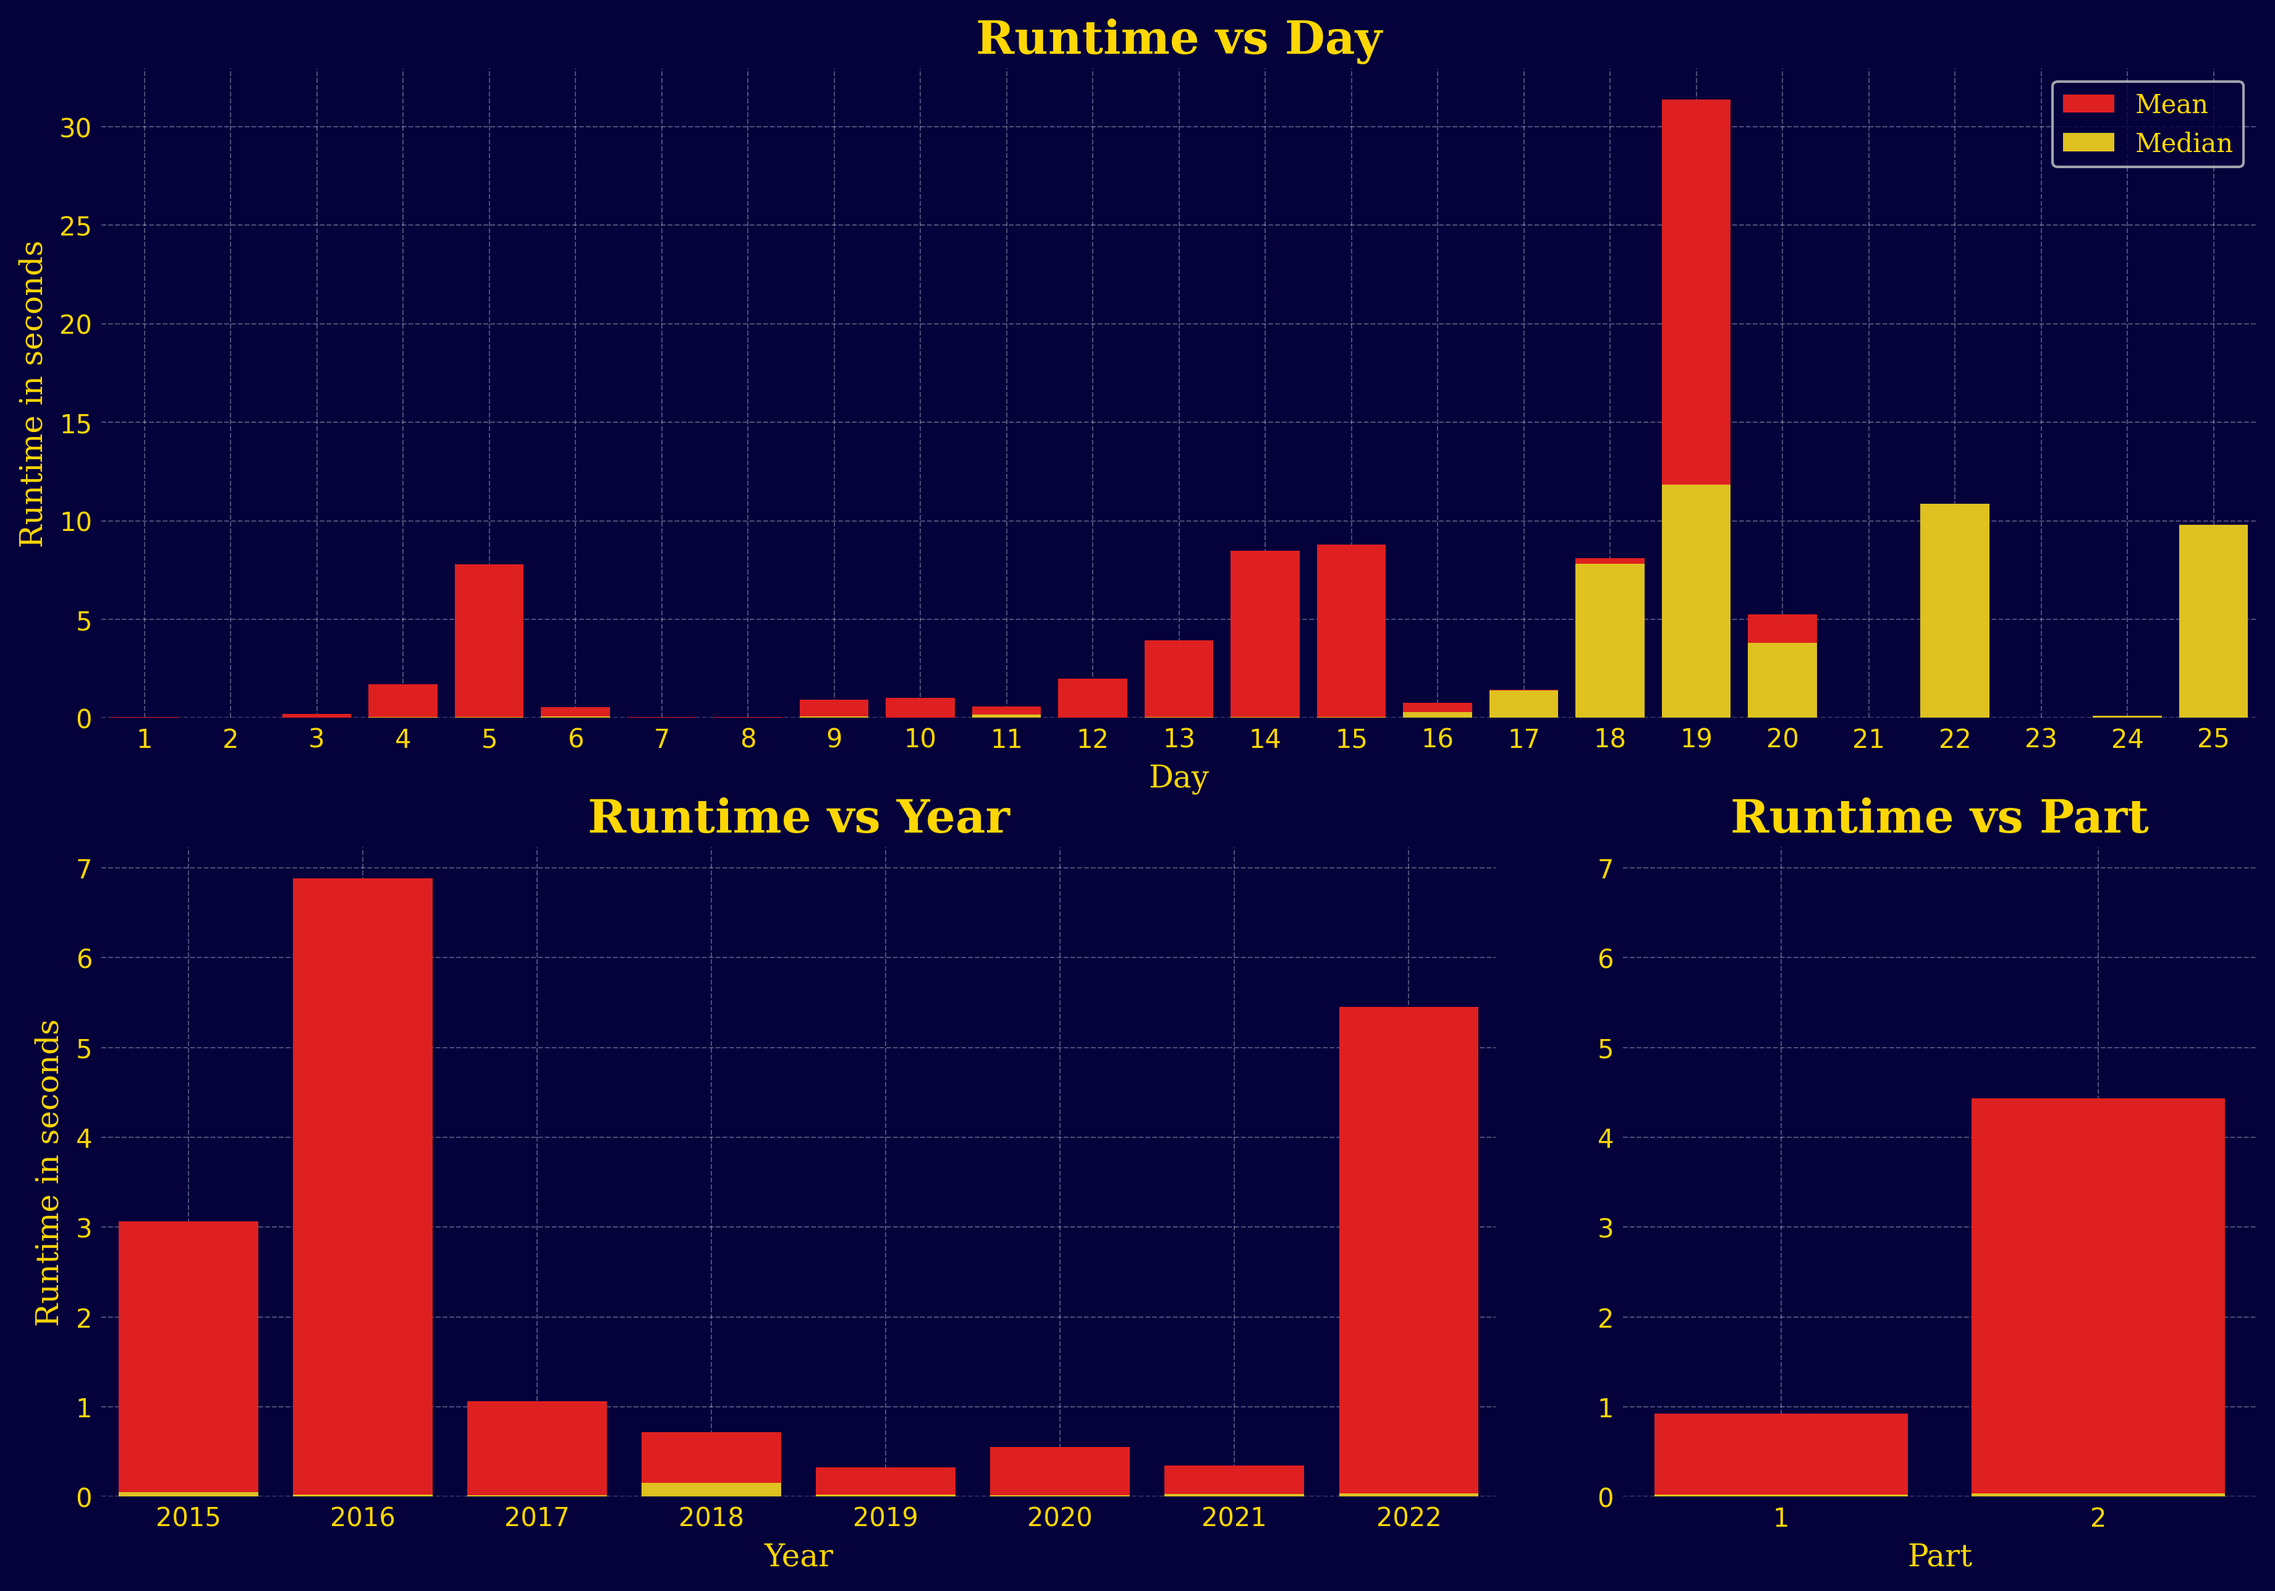
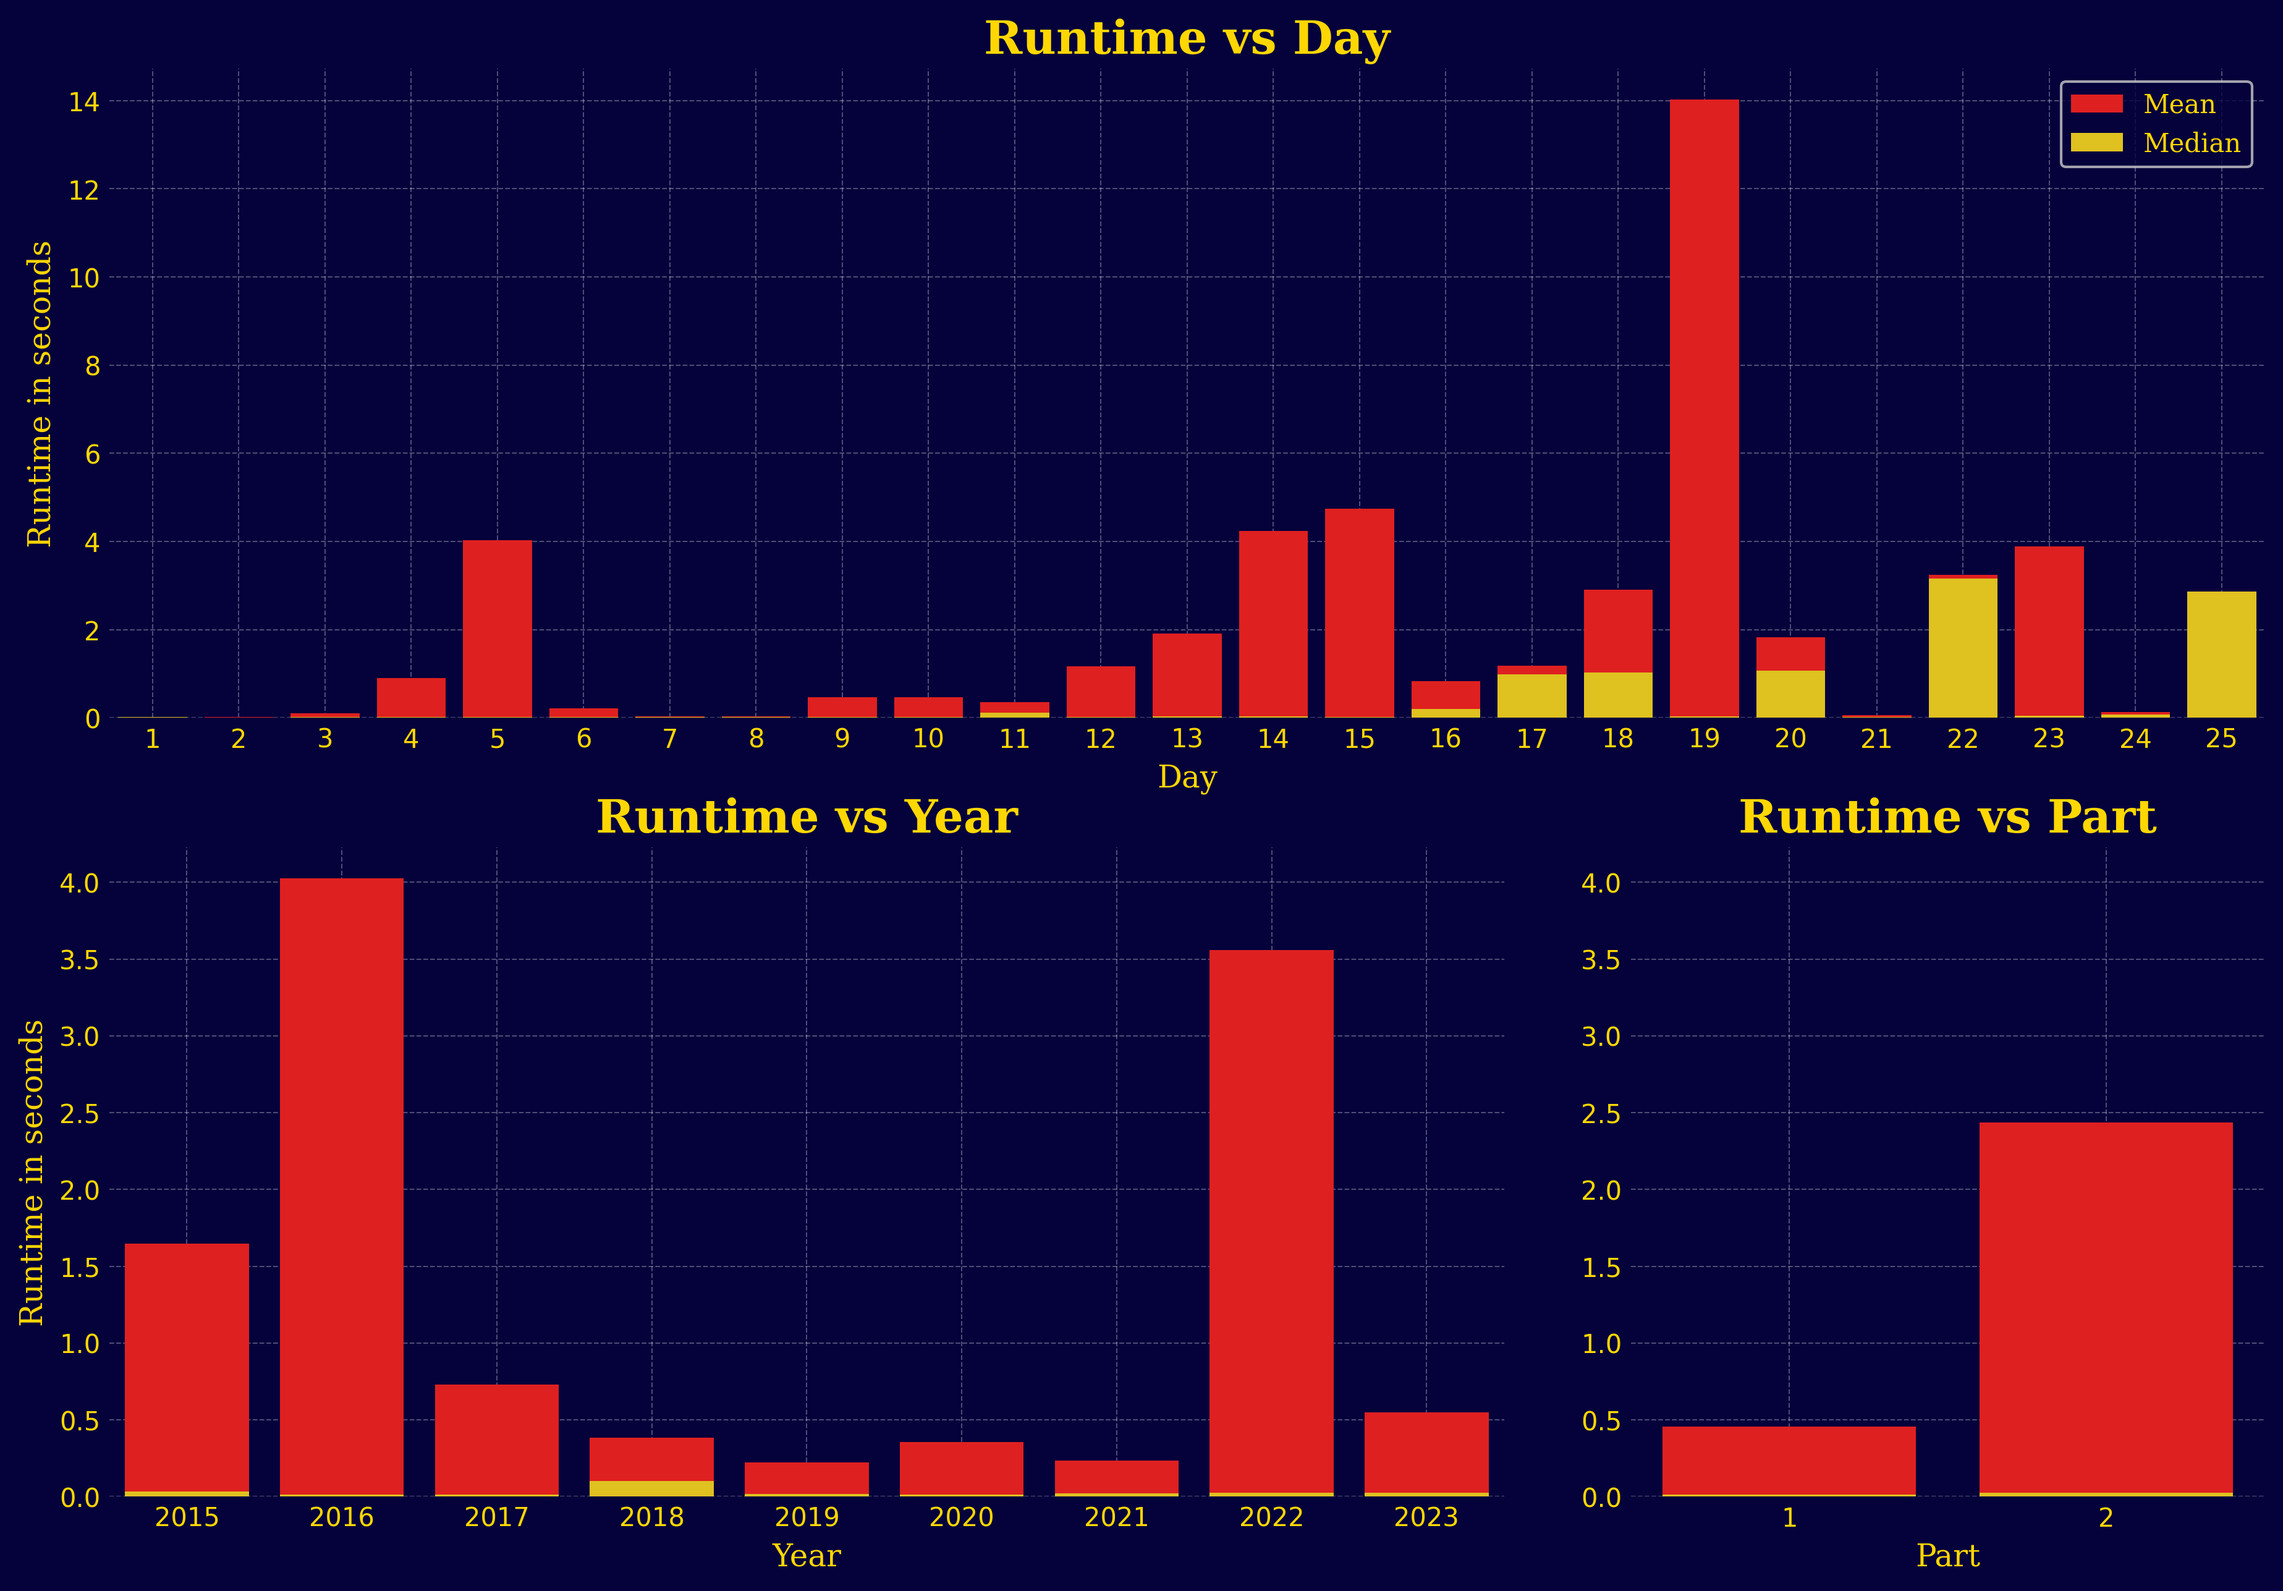
update plots

diff --git a/lib/plot.py b/lib/plot.py
@@ -6,35 +6,30 @@ import numpy as np
 
 # Local imports
 from lib import db, utils 
-from config import *
-
+from config import MAX_YEAR
+from config import TEXT_COLOR, PRIMARY_COLOR, BACKGROUND_COLOR, GRID_COLOR
+from config import PROGRESS_PLOT, RUNTIME_PLOT
 
 
 def plot_progress():
-
-    # Set colors
-    text_color = '#FFD700'
-    primary_color = '#FF0000'
-    background_color = '#04013b'
-    grid_color = 'white'
 
     # Set the figure size
     fig, ax = plt.subplots(figsize=(15, 5))
 
     # Customize the entire figure
-    fig.patch.set_facecolor(background_color)
+    fig.patch.set_facecolor(BACKGROUND_COLOR)
 
 
     # Add dotted white grid lines
-    ax.grid(True, linestyle='--', linewidth=0.5, color=grid_color, alpha=0.3)
+    ax.grid(True, linestyle='--', linewidth=0.5, color=GRID_COLOR, alpha=0.3)
 
     # Customize the title and axes font 
-    title_font = {'family': 'serif', 'color': text_color, 'size': 18, 'weight': 'bold'}
-    label_font = {'family': 'serif', 'color': text_color, 'size': 12}
+    title_font = {'family': 'serif', 'color': TEXT_COLOR, 'size': 18, 'weight': 'bold'}
+    label_font = {'family': 'serif', 'color': TEXT_COLOR, 'size': 12}
 
     # Create the scatter plot
     df = utils.get_progress_db()
-    sns.scatterplot(data=df[df.completed == 1], x='day', y='year', marker='o', color=primary_color, edgecolor=primary_color, s=140, ax=ax, zorder=2, alpha=0.9)
+    sns.scatterplot(data=df[df.completed == 1], x='day', y='year', marker='o', color=PRIMARY_COLOR, edgecolor=PRIMARY_COLOR, s=140, ax=ax, zorder=2, alpha=0.9)
 
     # Customize the plot area
     ax.set_facecolor('#04013b')
@@ -48,7 +43,7 @@ def plot_progress():
         spine.set_visible(False)
 
     # Customize ticks
-    ax.tick_params(axis='both', colors=text_color, length=0)
+    ax.tick_params(axis='both', colors=TEXT_COLOR, length=0)
     ax.set_xticks(np.arange(1, 26, 1))
     ax.set_xlim(0.6, 25.4)
     ax.set_yticks(np.arange(2015, MAX_YEAR+1, 1))
@@ -60,21 +55,15 @@ def plot_progress():
 
 def plot_runtime():
 
-    # Set colors
-    text_color = '#FFD700'
-    primary_color = '#FF0000'
-    background_color = '#04013b'
-    grid_color = 'white'
-
     # Customize the title and axes font 
-    title_font = {'family': 'serif', 'color': text_color, 'size': 18, 'weight': 'bold'}
-    label_font = {'family': 'serif', 'color': text_color, 'size': 12}
+    title_font = {'family': 'serif', 'color': TEXT_COLOR, 'size': 18, 'weight': 'bold'}
+    label_font = {'family': 'serif', 'color': TEXT_COLOR, 'size': 12}
 
     # Get data
     df = db.get_solution_db()
 
     # Create a figure, GridSpec layout and axes
-    fig = plt.figure(figsize=(15, 10), facecolor=background_color)
+    fig = plt.figure(figsize=(15, 10), facecolor=BACKGROUND_COLOR)
     gs = gridspec.GridSpec(2, 3)    # 2 rows, 3 columns
     ax1 = fig.add_subplot(gs[0, :])                 # Spans all 3 columns in the first row
     ax2 = fig.add_subplot(gs[1, :2])                # Spans first 2 columns in the second row
@@ -82,22 +71,22 @@ def plot_runtime():
 
     # Create plots
     for x, ax in zip(('day', 'year', 'part'), (ax1, ax2, ax3)):
-        sns.barplot(x=x, y='runtime', data=df, ax=ax, color=primary_color, estimator='mean', errorbar=None, label='Mean' if x=='day' else None, zorder=2)
-        sns.barplot(x=x, y='runtime', data=df, ax=ax, color=text_color, estimator='median', errorbar=None, label='Median' if x=='day' else None, zorder=3)
+        sns.barplot(x=x, y='runtime', data=df, ax=ax, color=PRIMARY_COLOR, estimator='mean', errorbar=None, label='Mean' if x=='day' else None, zorder=2)
+        sns.barplot(x=x, y='runtime', data=df, ax=ax, color=TEXT_COLOR, estimator='median', errorbar=None, label='Median' if x=='day' else None, zorder=3)
         ax.set_title(f'Runtime vs {x.capitalize()}', fontdict=title_font)
         ax.set_xlabel(x.capitalize(), fontdict=label_font)
         ax.set_ylabel('Runtime in seconds' if ax in (ax1, ax2) else '', fontdict=label_font)
-        ax.grid(True, linestyle='--', linewidth=0.5, color=grid_color, alpha=0.3)
-        ax.tick_params(axis='both', colors=text_color, length=0)
-        ax.set_facecolor(background_color)
+        ax.grid(True, linestyle='--', linewidth=0.5, color=GRID_COLOR, alpha=0.3)
+        ax.tick_params(axis='both', colors=TEXT_COLOR, length=0)
+        ax.set_facecolor(BACKGROUND_COLOR)
         for spine in ax.spines.values():
             spine.set_visible(False)
 
     # Add legend   
     handles, labels = ax1.get_legend_handles_labels()
-    legend = ax1.legend(handles, labels, facecolor=background_color)
+    legend = ax1.legend(handles, labels, facecolor=BACKGROUND_COLOR)
     for text in legend.get_texts():
-        text.set_color(text_color)
+        text.set_color(TEXT_COLOR)
         text.set_font('serif')
 
     # Save the plot      

diff --git a/config.py b/config.py
@@ -1,7 +1,8 @@
 from datetime import datetime
 import pytz
 
-### Global Date Variables:
+
+### Global date variables
 
 def get_curr_max_date():
     # AoC local time (EST/UTC-5) 
@@ -10,7 +11,7 @@ def get_curr_max_date():
     is_december = (month == 12)
     
     MAX_YEAR = year if is_december else year - 1
-    MAX_DAY = min(day, 25) if is_december else 25
+    MAX_DAY = day if is_december and day < 25 else 25
     return MAX_YEAR, MAX_DAY
 
 MAX_YEAR, MAX_DAY = get_curr_max_date()
@@ -34,3 +35,13 @@ VIDEO = 'db/video.csv'
 
 # Solving functions
 SOLUTION_DIR = 'lib/solutions/'
+
+
+### Plot configuration
+
+# Colors
+TEXT_COLOR = '#FFD700'
+PRIMARY_COLOR = '#FF0000'
+BACKGROUND_COLOR = '#04013b'
+GRID_COLOR = 'white'
+

diff --git a/lib/solutions/aoc2023.py b/lib/solutions/aoc2023.py
@@ -1577,4 +1577,4 @@ def aoc2023_day25_part1(puzzle_input):
         if cuts == 3:
             break
 
-    return math.prod(partitions)
+    return math.prod(map(len, partitions))
